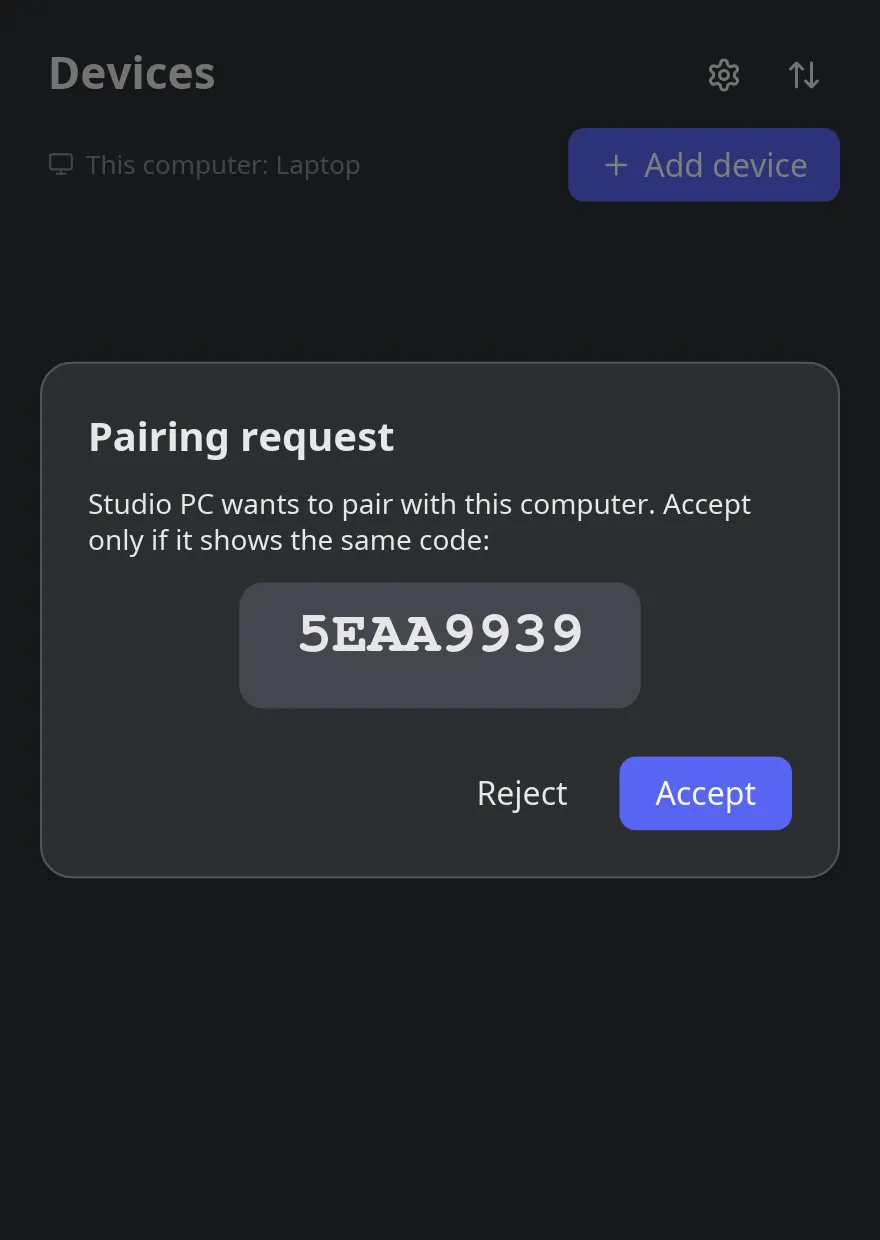
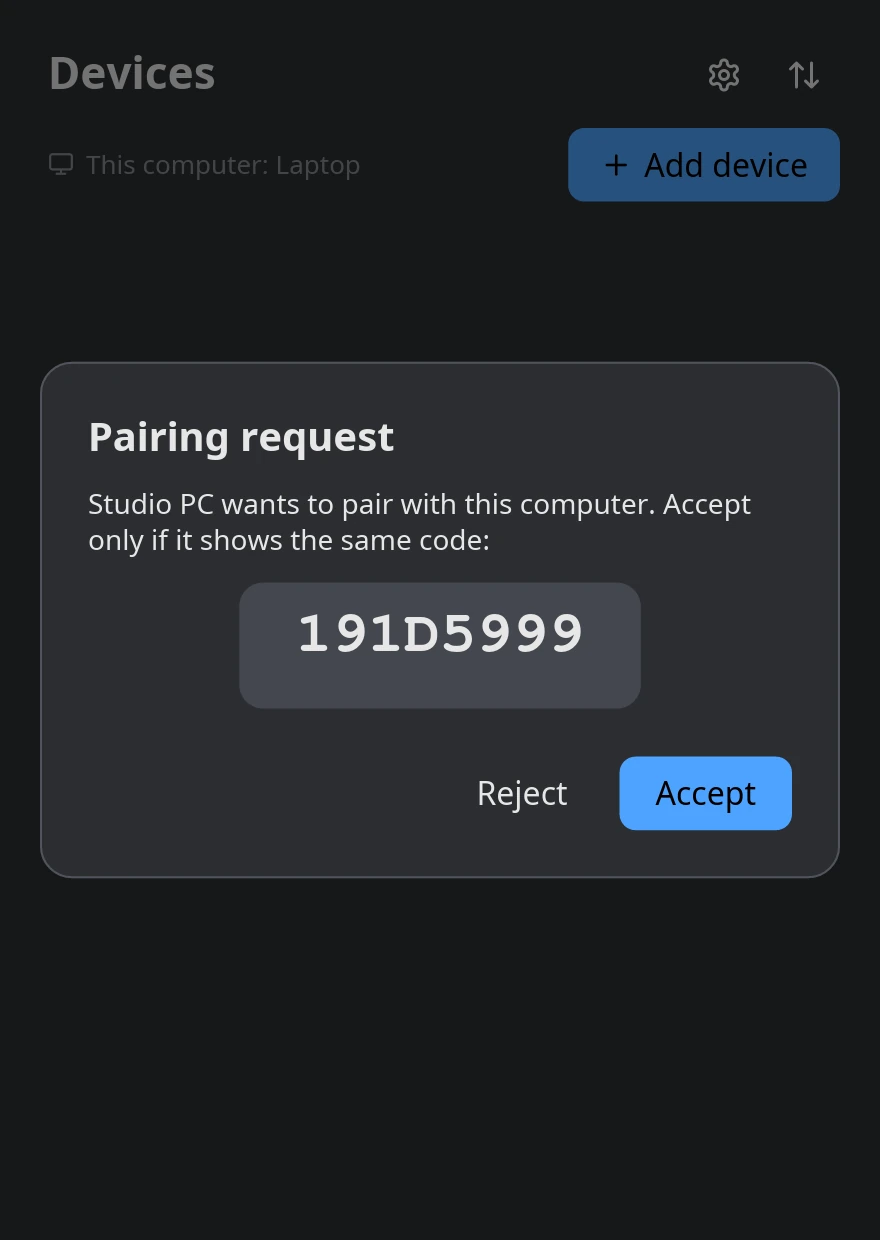
Retake the screenshots, and keep one copy for the README and the site
The screenshots showed the old colours and still said "MyConnect".
They are retaken in light and dark, and the README now shows the
website's WebP copies; docs/screenshots went in the previous commit.

diff --git a/README.md b/README.md
@@ -35,9 +35,9 @@ theme.
 
 <table>
 <tr>
-<td valign="top"><picture><source media="(prefers-color-scheme: dark)" srcset="docs/screenshots/dark/devices.png"><img src="docs/screenshots/light/devices.png" alt="The device list: a phone with its battery, and a desktop" width="270"></picture></td>
-<td valign="top"><picture><source media="(prefers-color-scheme: dark)" srcset="docs/screenshots/dark/device.png"><img src="docs/screenshots/light/device.png" alt="A desktop's page: ping, ring, send clipboard, send files, and recent transfers" width="270"></picture></td>
-<td valign="top"><picture><source media="(prefers-color-scheme: dark)" srcset="docs/screenshots/dark/pairing-request.png"><img src="docs/screenshots/light/pairing-request.png" alt="A pairing request with the verification code to compare" width="270"></picture></td>
+<td valign="top"><picture><source media="(prefers-color-scheme: dark)" srcset="site/img/devices-dark.webp"><img src="site/img/devices-light.webp" alt="The device list: a phone with its battery, and a desktop" width="270"></picture></td>
+<td valign="top"><picture><source media="(prefers-color-scheme: dark)" srcset="site/img/device-dark.webp"><img src="site/img/device-light.webp" alt="A desktop's page: ping, ring, send clipboard, send files, and recent transfers" width="270"></picture></td>
+<td valign="top"><picture><source media="(prefers-color-scheme: dark)" srcset="site/img/pairing-request-dark.webp"><img src="site/img/pairing-request-light.webp" alt="A pairing request with the verification code to compare" width="270"></picture></td>
 </tr>
 <tr>
 <td align="center">Paired devices</td>
@@ -45,9 +45,9 @@ theme.
 <td align="center">Pairing, with a code to compare</td>
 </tr>
 <tr>
-<td valign="top"><picture><source media="(prefers-color-scheme: dark)" srcset="docs/screenshots/dark/add-device.png"><img src="docs/screenshots/light/add-device.png" alt="Add device: devices found on the network, and add by IP address" width="270"></picture></td>
-<td valign="top"><picture><source media="(prefers-color-scheme: dark)" srcset="docs/screenshots/dark/transfers.png"><img src="docs/screenshots/light/transfers.png" alt="Transfers in both directions, one in progress" width="270"></picture></td>
-<td valign="top"><picture><source media="(prefers-color-scheme: dark)" srcset="docs/screenshots/dark/settings.png"><img src="docs/screenshots/light/settings.png" alt="Settings: device name, download folder, clipboard sync, keep running in the tray" width="270"></picture></td>
+<td valign="top"><picture><source media="(prefers-color-scheme: dark)" srcset="site/img/add-device-dark.webp"><img src="site/img/add-device-light.webp" alt="Add device: devices found on the network, and add by IP address" width="270"></picture></td>
+<td valign="top"><picture><source media="(prefers-color-scheme: dark)" srcset="site/img/transfers-dark.webp"><img src="site/img/transfers-light.webp" alt="Transfers in both directions, one in progress" width="270"></picture></td>
+<td valign="top"><picture><source media="(prefers-color-scheme: dark)" srcset="site/img/settings-dark.webp"><img src="site/img/settings-light.webp" alt="Settings: device name, download folder, clipboard sync, keep running in the tray" width="270"></picture></td>
 </tr>
 <tr>
 <td align="center">Finding devices</td>
@@ -61,8 +61,8 @@ upload, rename, delete, create folders, and preview images.
 
 <table>
 <tr>
-<td valign="top"><picture><source media="(prefers-color-scheme: dark)" srcset="docs/screenshots/dark/files.png"><img src="docs/screenshots/light/files.png" alt="A phone's camera folder, with a photo's actions open" width="420"></picture></td>
-<td valign="top"><picture><source media="(prefers-color-scheme: dark)" srcset="docs/screenshots/dark/file-preview.png"><img src="docs/screenshots/light/file-preview.png" alt="An image preview" width="420"></picture></td>
+<td valign="top"><picture><source media="(prefers-color-scheme: dark)" srcset="site/img/files-dark.webp"><img src="site/img/files-light.webp" alt="A phone's camera folder, with a photo's actions open" width="420"></picture></td>
+<td valign="top"><picture><source media="(prefers-color-scheme: dark)" srcset="site/img/file-preview-dark.webp"><img src="site/img/file-preview-light.webp" alt="An image preview" width="420"></picture></td>
 </tr>
 </table>
 

diff --git a/docs/HANDOFF.md b/docs/HANDOFF.md
@@ -309,6 +309,11 @@ click with XTest (`libXtst` through Python `ctypes`). Don't open windows on
 the user's own session, and don't pair with or send to real devices on
 their network without asking.
 
+The README and the website share one set of screenshots,
+`site/img/<page>-<light|dark>.webp`, taken at 2x
+(`WINIT_X11_SCALE_FACTOR=2`) and saved 880 px wide. `ICED_THEME=Light` or
+`Dark` forces the app's theme, for taking both.
+
 - Launch the app under `env -u WAYLAND_DISPLAY DISPLAY=:NN
   GDK_BACKEND=x11 ICED_BACKEND=tiny-skia dbus-run-session -- ...`, with
   the environment *outside* `dbus-run-session`. Services the private bus starts (the file chooser
